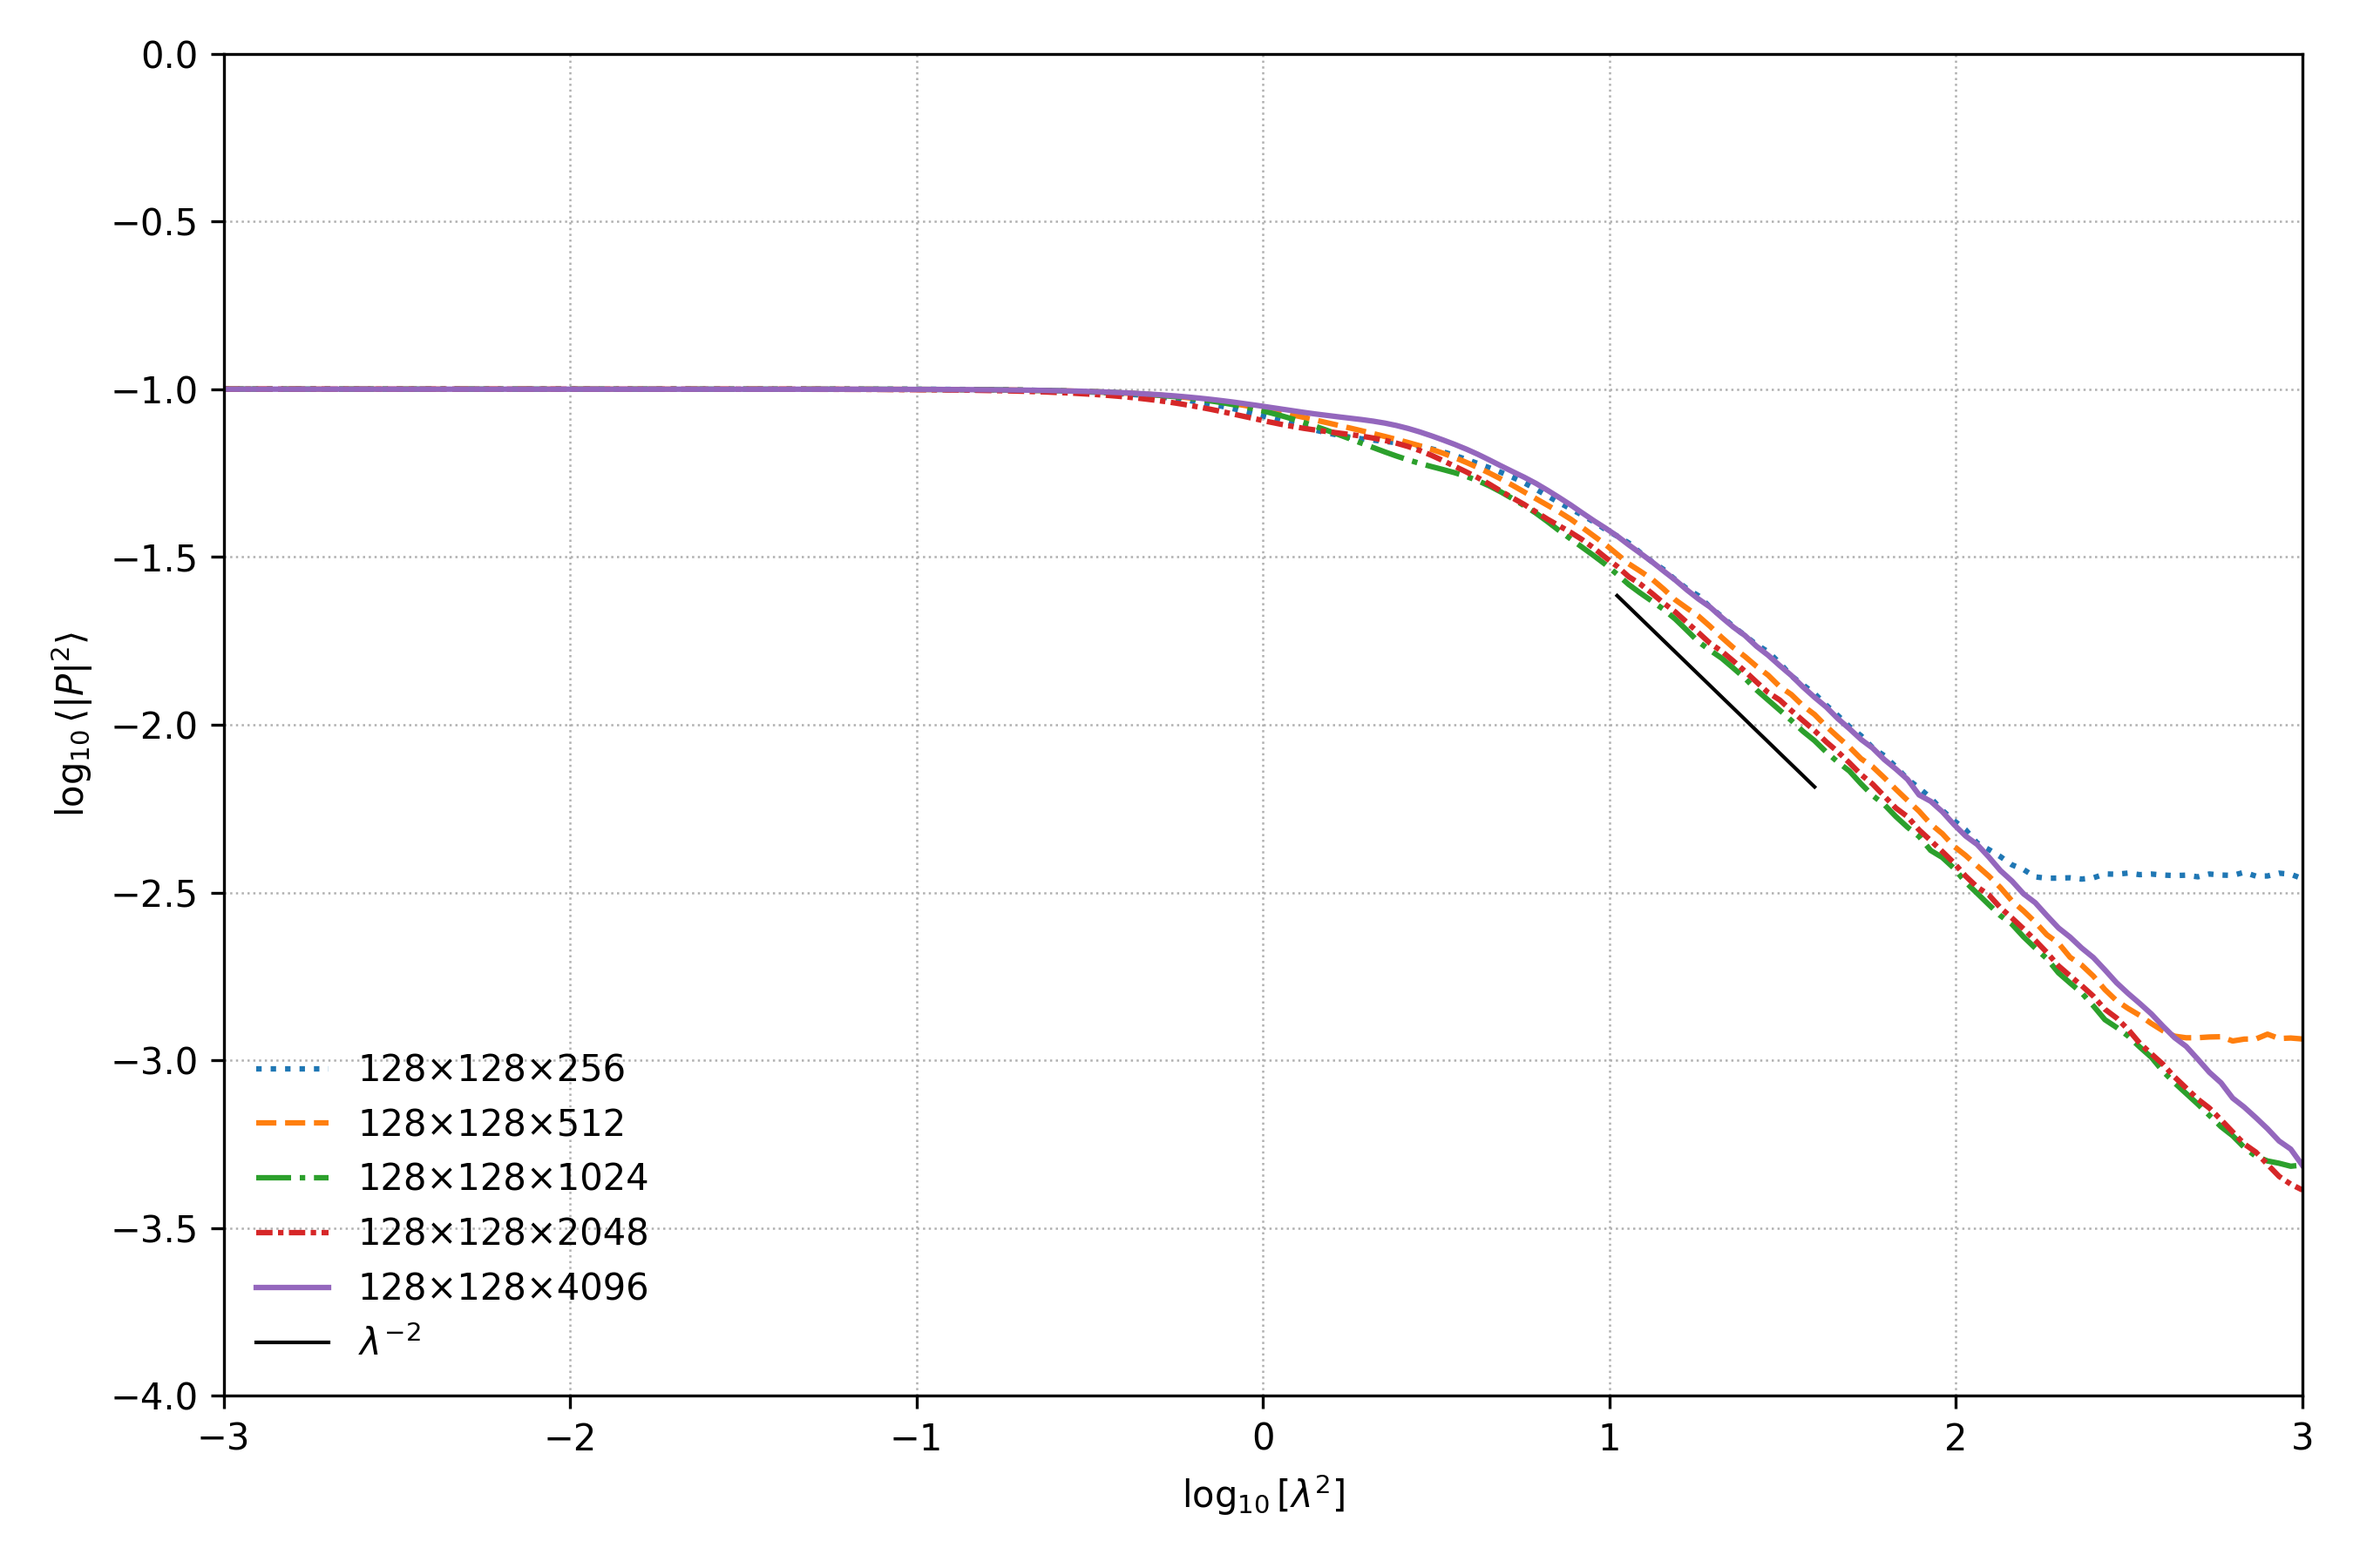
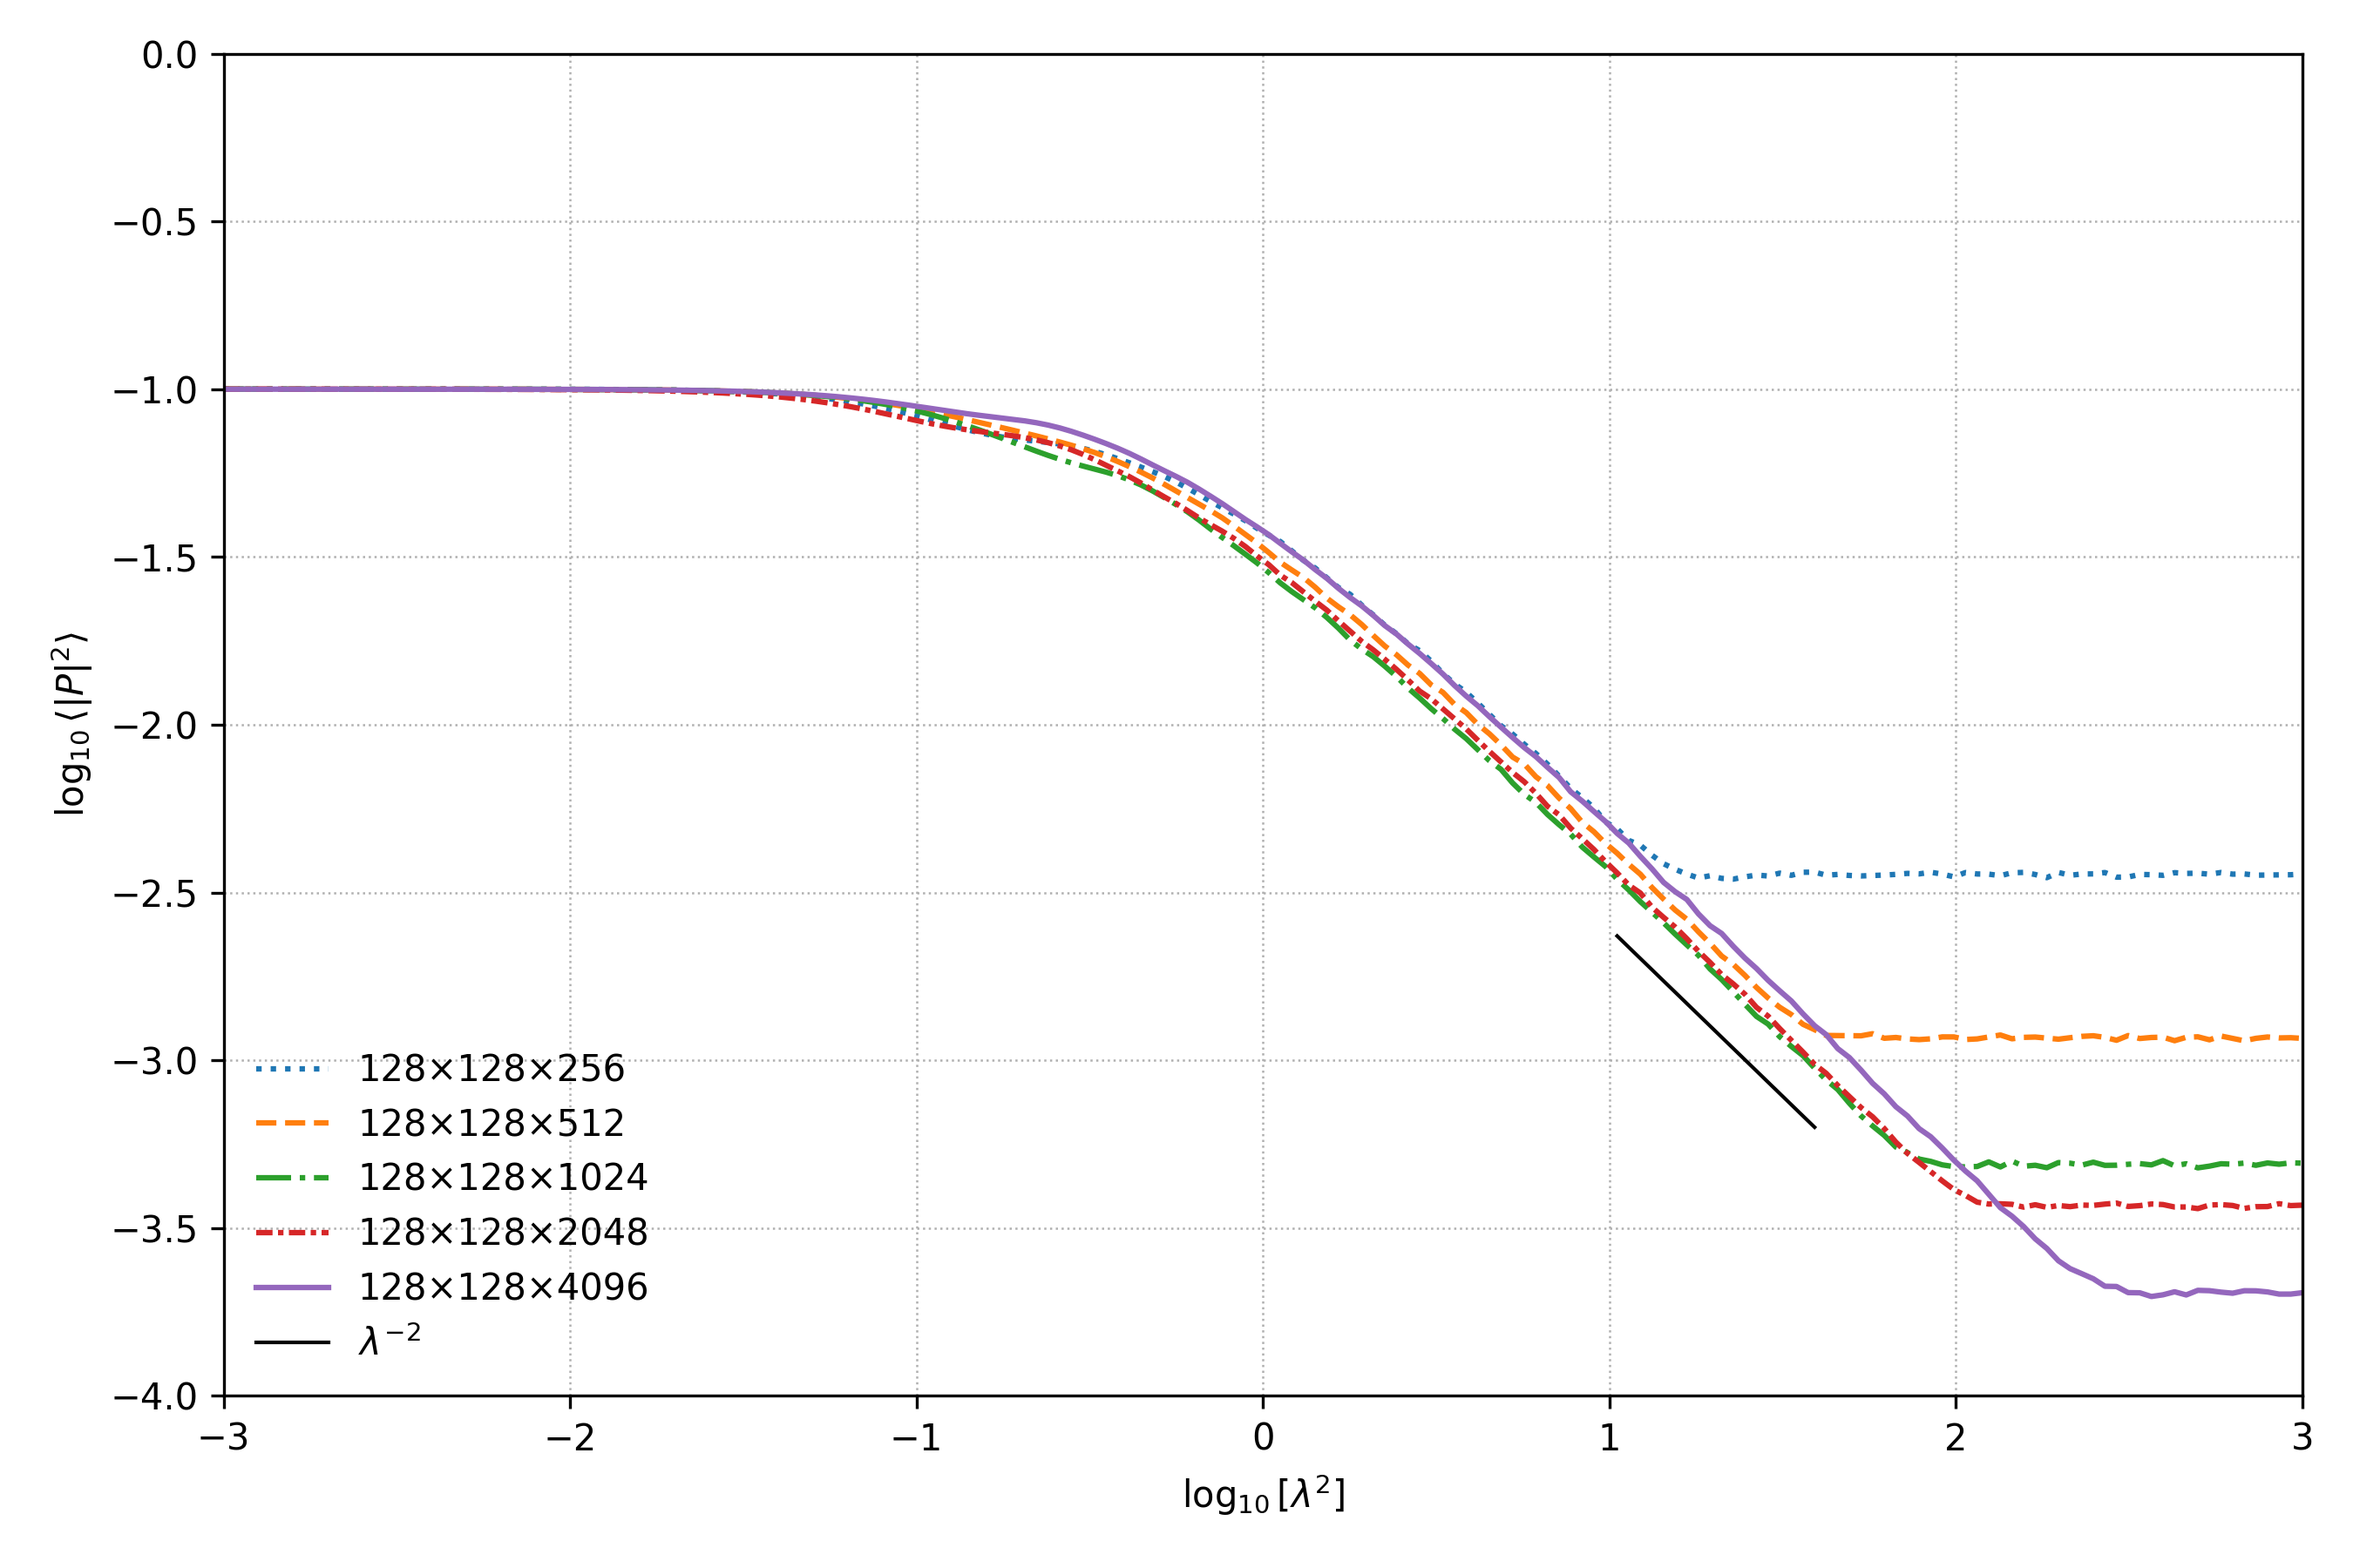
Setting break near log_10(lambda^2)=-1

diff --git a/athena_vtk_to_h5/zhang/plot_fig2_zhang2016.py b/athena_vtk_to_h5/zhang/plot_fig2_zhang2016.py
@@ -29,7 +29,7 @@ def decorrelate_phi_along_z(phi):
             out[i, j, :] = np.roll(phi[i, j, :], s)
     return out
 
-def pfa_variance_curve(path, lam2_grid, gamma=2.0, lam2_break_target=1.0,
+def pfa_variance_curve(path, lam2_grid, gamma=2.0, lam2_break_target=0.1,
                        decorrelate=False):
     """
     Mixed case PFA: Pmap(λ) = Σ_z P_i(z) exp[2i λ² Φ(z+1/2)] Δz, with φ = n_e B∥.
@@ -101,7 +101,7 @@ def process_wavelength_batch_worker(args):
 
     return y
 
-def pfa_variance_curve_parallel(path, lam2_grid, gamma=2.0, lam2_break_target=1.0,
+def pfa_variance_curve_parallel(path, lam2_grid, gamma=2.0, lam2_break_target=0.1,
                                 decorrelate=False, n_processes=11):
     """Parallel version with multiprocessing"""
     batch_size = max(1, len(lam2_grid) // n_processes)
@@ -147,20 +147,20 @@ def main():
             print(f"\nProcessing {p} with 11 parallel processes...")
             start_time = time.time()
             if "256" in p:
-                continue
-                y = pfa_variance_curve_parallel(p, lam2, gamma=2.0, lam2_break_target=1.0, 
+                # continue
+                y = pfa_variance_curve_parallel(p, lam2, gamma=2.0, lam2_break_target=0.1, 
                                             decorrelate=True, n_processes=11)
             elif "512" in p:
-                y = pfa_variance_curve_parallel(p, lam2, gamma=2.0, lam2_break_target=1.0, 
+                y = pfa_variance_curve_parallel(p, lam2, gamma=2.0, lam2_break_target=0.1, 
                                             decorrelate=True, n_processes=8)
             elif "1024" in p:
-                y = pfa_variance_curve_parallel(p, lam2, gamma=2.0, lam2_break_target=1.0, 
+                y = pfa_variance_curve_parallel(p, lam2, gamma=2.0, lam2_break_target=0.1, 
                                             decorrelate=True, n_processes=4)
             elif "2048" in p:
-                y = pfa_variance_curve_parallel(p, lam2, gamma=2.0, lam2_break_target=1.0, 
+                y = pfa_variance_curve_parallel(p, lam2, gamma=2.0, lam2_break_target=0.1, 
                                             decorrelate=True, n_processes=2)
             else:
-                y = pfa_variance_curve_parallel(p, lam2, gamma=2.0, lam2_break_target=1.0, 
+                y = pfa_variance_curve_parallel(p, lam2, gamma=2.0, lam2_break_target=0.1, 
                                             decorrelate=True, n_processes=1) 
             elapsed = time.time() - start_time
             print(f"Completed in {elapsed:.2f} seconds")

diff --git a/athena_vtk_to_h5/zhang/recreate_fig2_from_npz.py b/athena_vtk_to_h5/zhang/recreate_fig2_from_npz.py
@@ -58,7 +58,7 @@ def main():
         # Filter to x-axis range from 1 to 2 (log10)
         log10_lam2 = np.log10(lam2)
         mask = (log10_lam2 >= 1) & (log10_lam2 <= 1.6)
-        ax.plot(log10_lam2[mask], np.log10(ref)[mask] - 0.1, color="k", linewidth=1.0, label=r"$\lambda^{-2}$")
+        ax.plot(log10_lam2[mask], np.log10(ref)[mask] - 0.3, color="k", linewidth=1.0, label=r"$\lambda^{-2}$")
     
     ax.set_xlabel(r"$\log_{10}[\lambda^2]$")
     ax.set_ylabel(r"$\log_{10}\langle |P|^2\rangle$")
